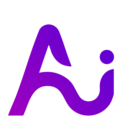
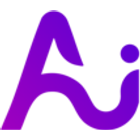
Add PWA manifest and automate the booking schedule reset
- Installable web-app manifest + apple-touch-icon, all using a clean
  crop of the Ai mark (the original logo-mark.png/app icon carried a
  sliver of the "denta" wordmark bleeding in from the right edge —
  fixed in the same pass).
- One-off script (prisma/reset-schedule.ts) to replace the booking
  calendar with 4 fixed evening slots/day (2, 3, 9, 10 — 30 min each),
  every day except Friday.
- Daily Vercel Cron hitting /api/cron/generate-slots keeps a rolling
  14-day window of slots open automatically; generateSlots() is
  idempotent so re-running it just extends the far edge.
- Pin TZ=Africa/Cairo (was previously unset, so date/time handling
  silently used the server's default UTC) so slot times and their
  Intl.DateTimeFormat display match real Cairo wall-clock time.

Changed region(s): [[0.0, 0.0571, 1.0, 0.9429], [0.8571, 0.3143, 1.0, 0.4571]]

diff --git a/prisma/reset-schedule.ts b/prisma/reset-schedule.ts
@@ -1,0 +1,60 @@
+import "dotenv/config";
+import { prisma } from "../src/lib/prisma.ts";
+import { generateSlots } from "../src/services/booking/slot-generation.ts";
+
+// One-off: replace the booking schedule with 4 fixed evening slots a day
+// (every day except Friday), wiping all existing bookings/slots/rules.
+const WORKING_WEEKDAYS = [0, 1, 2, 3, 4, 6]; // Sun-Thu + Sat; Friday (5) is off
+const TIME_RANGES: [string, string][] = [
+  ["14:00", "14:30"],
+  ["15:00", "15:30"],
+  ["21:00", "21:30"],
+  ["22:00", "22:30"],
+];
+const SLOT_LENGTH_MINUTES = 30;
+const HORIZON_DAYS = 14;
+
+async function main() {
+  const { count: paymentsDeleted } = await prisma.payment.deleteMany({});
+  const { count: bookingsDeleted } = await prisma.booking.deleteMany({});
+  const { count: slotsDeleted } = await prisma.slot.deleteMany({});
+  const { count: rulesDeleted } = await prisma.workingHoursRule.deleteMany({});
+
+  const rulesData = WORKING_WEEKDAYS.flatMap((weekday) =>
+    TIME_RANGES.map(([startTime, endTime]) => ({
+      weekday,
+      startTime,
+      endTime,
+      slotLengthMinutes: SLOT_LENGTH_MINUTES,
+    })),
+  );
+  await prisma.workingHoursRule.createMany({ data: rulesData });
+
+  const { created: slotsCreated } = await generateSlots({
+    horizonDays: HORIZON_DAYS,
+  });
+
+  console.log(
+    JSON.stringify(
+      {
+        paymentsDeleted,
+        bookingsDeleted,
+        slotsDeleted,
+        rulesDeleted,
+        rulesCreated: rulesData.length,
+        slotsCreated,
+      },
+      null,
+      2,
+    ),
+  );
+}
+
+main()
+  .catch((error) => {
+    console.error(error);
+    process.exitCode = 1;
+  })
+  .finally(async () => {
+    await prisma.$disconnect();
+  });

diff --git a/src/app/[locale]/layout.tsx b/src/app/[locale]/layout.tsx
@@ -1,4 +1,4 @@
-import type { Metadata } from "next";
+import type { Metadata, Viewport } from "next";
 import { NextIntlClientProvider, hasLocale } from "next-intl";
 import { getTranslations, setRequestLocale } from "next-intl/server";
 import { notFound } from "next/navigation";
@@ -26,6 +26,12 @@ export async function generateMetadata({
       default: `Ai Denta — ${t("eyebrow")}`,
     },
     description: t("subtitle"),
+    manifest: "/manifest.webmanifest",
+    appleWebApp: {
+      capable: true,
+      title: "Ai Denta",
+      statusBarStyle: "black-translucent",
+    },
     openGraph: {
       siteName: "Ai Denta",
       locale: locale === "ar" ? "ar_EG" : "en_US",
@@ -33,6 +39,10 @@ export async function generateMetadata({
     },
   };
 }
+
+export const viewport: Viewport = {
+  themeColor: "#251037",
+};
 
 export default async function LocaleLayout({
   children,

diff --git a/src/app/manifest.ts b/src/app/manifest.ts
@@ -1,0 +1,23 @@
+import type { MetadataRoute } from "next";
+
+export default function manifest(): MetadataRoute.Manifest {
+  return {
+    name: "Ai Denta",
+    short_name: "Ai Denta",
+    description: "Dental marketing agency — content, paid ads, and booking.",
+    start_url: "/",
+    display: "standalone",
+    background_color: "#251037",
+    theme_color: "#251037",
+    icons: [
+      { src: "/icons/icon-192.png", sizes: "192x192", type: "image/png", purpose: "any" },
+      { src: "/icons/icon-512.png", sizes: "512x512", type: "image/png", purpose: "any" },
+      {
+        src: "/icons/icon-maskable-512.png",
+        sizes: "512x512",
+        type: "image/png",
+        purpose: "maskable",
+      },
+    ],
+  };
+}

diff --git a/src/app/api/cron/generate-slots/route.ts b/src/app/api/cron/generate-slots/route.ts
@@ -1,0 +1,14 @@
+import { NextResponse } from "next/server";
+import { generateSlots } from "@/services/booking/slot-generation";
+
+const HORIZON_DAYS = 14;
+
+export async function GET(request: Request) {
+  const authHeader = request.headers.get("authorization");
+  if (authHeader !== `Bearer ${process.env.CRON_SECRET}`) {
+    return NextResponse.json({ error: "Unauthorized" }, { status: 401 });
+  }
+
+  const { created } = await generateSlots({ horizonDays: HORIZON_DAYS });
+  return NextResponse.json({ created });
+}
